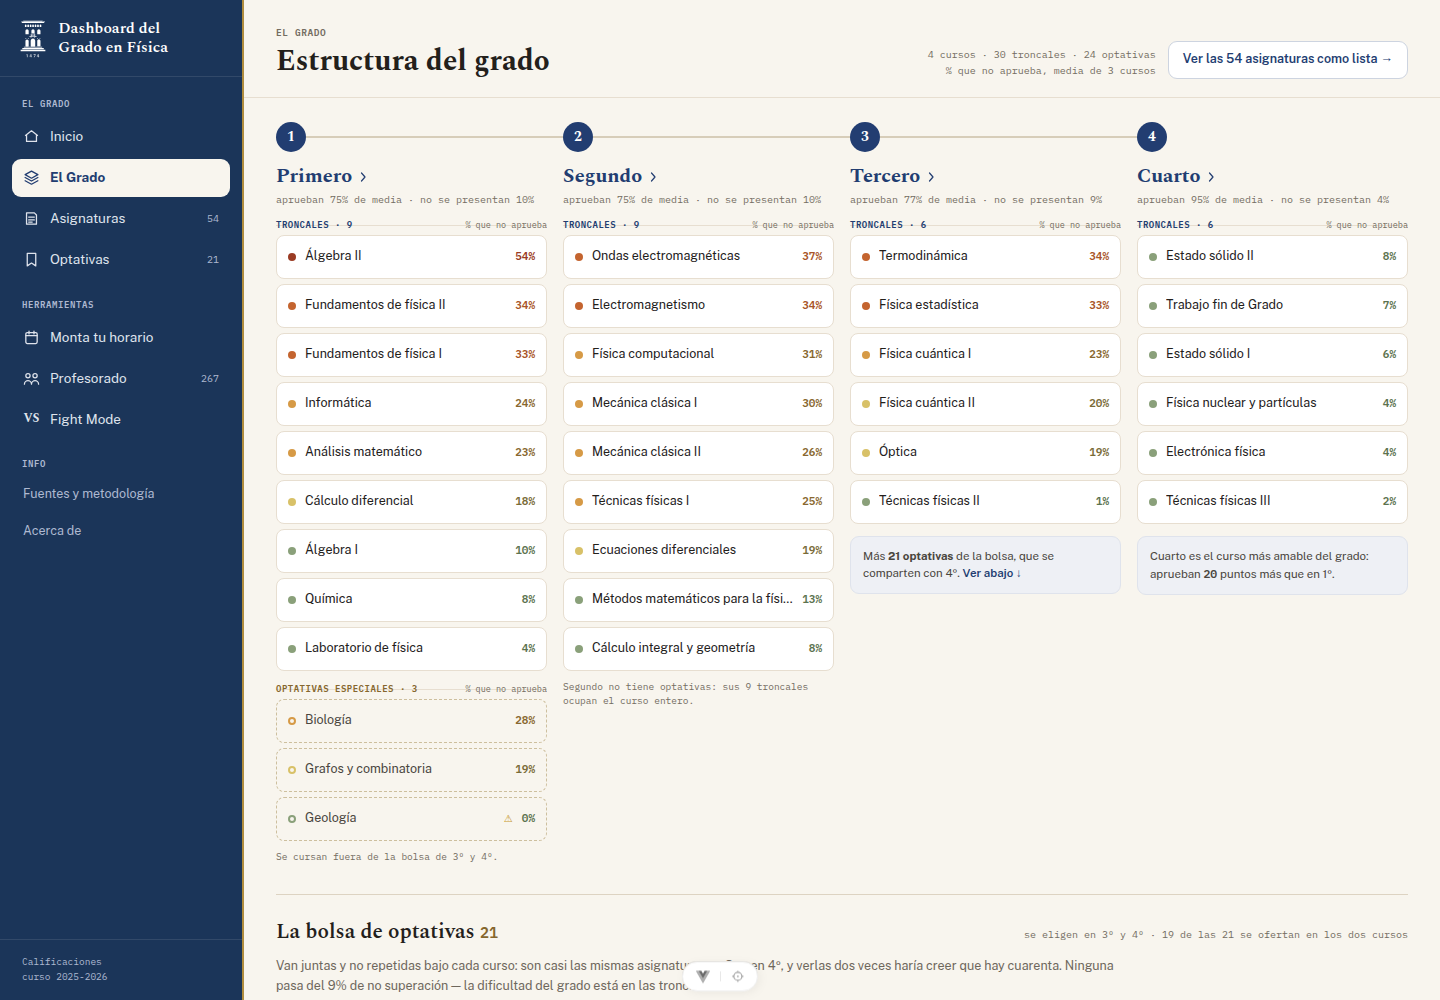
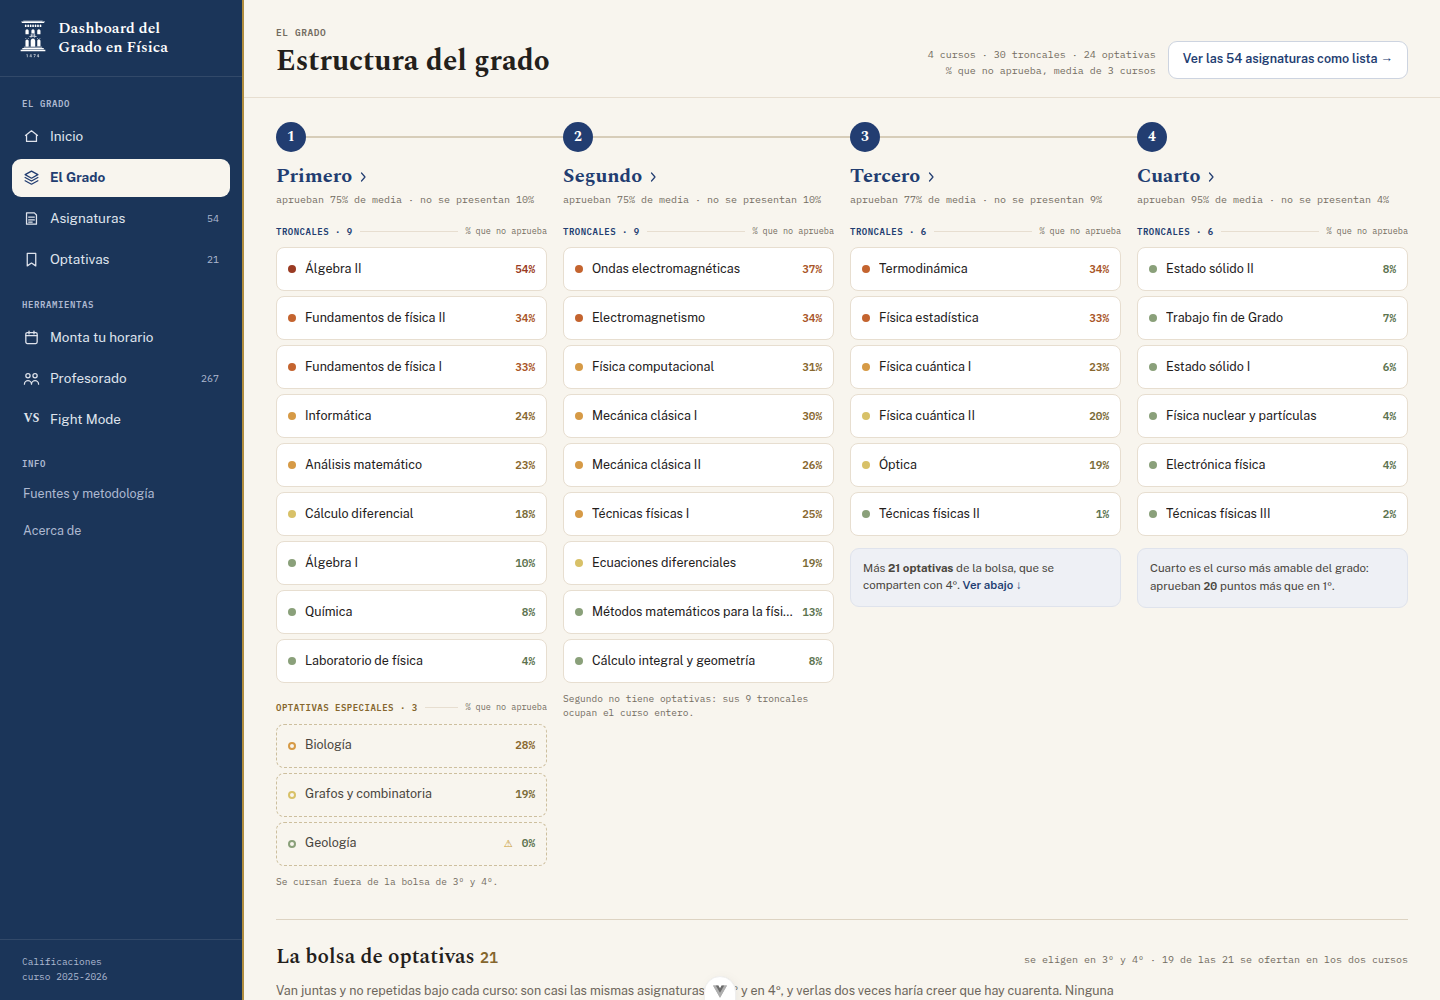
La variante "rule" se pintaba a sí misma
UiSectionHeader pone el nombre de la variante como clase en la raíz
(class="header rule on-navy"), y su hoja de estilos llamaba `.rule`
también al filete de dentro. La regla le pegaba a las dos: la cabecera
entera se quedaba en 1px de alto y con un filete de lado a lado por
detrás del texto, que es lo que se veía tachando "% que no aprueba" en
El Grado.

El filete pasa a llamarse `.divider`. La variante `band` no lo sufría
porque su nombre no chocaba con nada.

De paso, Prettier reajusta dos párrafos de Faculty y Home que quedaron
sin formatear en los últimos retoques de texto.

Changed region(s): [[0.1875, 0.217, 0.9688, 1.0], [0.8125, 0.93, 0.9688, 0.961]]

diff --git a/web/src/components/ui/UiSectionHeader.vue b/web/src/components/ui/UiSectionHeader.vue
@@ -60,7 +60,7 @@ defineProps({
             >
         </span>
 
-        <div class="rule"></div>
+        <div class="divider"></div>
 
         <span v-if="hint" class="hint">
             {{ hint }}
@@ -108,7 +108,11 @@ defineProps({
     color: var(--ink-soft);
 }
 
-.rule {
+/* El filete que va entre el rótulo y la pista. NO se llama `rule`: ese es el
+   nombre de la variante, y la variante viaja como clase en la raíz — un
+   `.rule` aquí le pegaba también a la cabecera entera, que se quedaba en 1px
+   de alto y con el filete cruzándola de lado a lado por detrás del texto. */
+.divider {
     flex: 1;
 
     min-width: 8px;
@@ -183,7 +187,7 @@ defineProps({
     /* El punto separa dos cosas del mismo tamaño; aquí el recuento ya se
        distingue por la familia y el color. */
     .header.band .separator,
-    .header.band .rule {
+    .header.band .divider {
         display: none;
     }
 

diff --git a/web/src/views/Faculty.vue b/web/src/views/Faculty.vue
@@ -274,8 +274,8 @@ const topWeight = computed(
                 <p class="listNote onlyWide">
                     {{ activeOnly ? totals.active : totals.professors }}
                     {{ activeOnly ? "en activo" : "en total" }}, ordenados por
-                    índice · la lista se desplaza; para ir a alguien concreto usa
-                    el buscador.
+                    índice · la lista se desplaza; para ir a alguien concreto
+                    usa el buscador.
                 </p>
 
                 <section class="panel histogram onlyWide">

diff --git a/web/src/views/Home.vue b/web/src/views/Home.vue
@@ -287,9 +287,7 @@ const admissionNote = computed(() => {
                 <section class="panel onlyWide">
                     <h2>Evolución a lo largo de los años</h2>
 
-                    <p class="lead">
-                        Tasa de rendimiento del grado.
-                    </p>
+                    <p class="lead">Tasa de rendimiento del grado.</p>
 
                     <LineChart
                         :labels="trend.labels"
